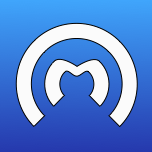
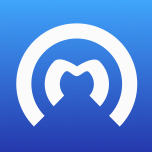
Added Smile test and fixed bug with svg reading

diff --git a/NGraphics/SvgReader.cs b/NGraphics/SvgReader.cs
@@ -210,6 +210,23 @@ namespace NGraphics
 		void ApplyStyle (Dictionary<string, string> style, ref Pen pen, ref Brush brush)
 		{
 			//
+			// Pen attributes
+			//
+			var strokeWidth = GetString (style, "stroke-width");
+			if (!string.IsNullOrWhiteSpace (strokeWidth)) {
+				if (pen == null)
+					pen = new Pen ();
+				pen.Width = ReadNumber (strokeWidth);
+			}
+
+			var strokeOpacity = GetString (style, "stroke-opacity");
+			if (!string.IsNullOrWhiteSpace (strokeOpacity)) {
+				if (pen == null)
+					pen = new Pen ();
+				pen.Color = pen.Color.WithAlpha (ReadNumber (strokeOpacity));
+			}
+
+			//
 			// Pen
 			//
 			var stroke = GetString (style, "stroke").Trim ();
@@ -230,20 +247,15 @@ namespace NGraphics
 			}
 
 			//
-			// Pen attributes
+			// Brush attributes
 			//
-			var strokeWidth = GetString (style, "stroke-width");
-			if (!string.IsNullOrWhiteSpace (strokeWidth)) {
-				if (pen == null)
-					pen = new Pen ();
-				pen.Width = ReadNumber (strokeWidth);
-			}
-
-			var strokeOpacity = GetString (style, "stroke-opacity");
-			if (!string.IsNullOrWhiteSpace (strokeOpacity)) {
-				if (pen == null)
-					pen = new Pen ();
-				pen.Color = pen.Color.WithAlpha (ReadNumber (strokeOpacity));
+			var fillOpacity = GetString (style, "fill-opacity");
+			if (!string.IsNullOrWhiteSpace (fillOpacity)) {
+				if (brush == null)
+					brush = new SolidBrush ();
+				var sb = brush as SolidBrush;
+				if (sb != null)
+					sb.Color = sb.Color.WithAlpha (ReadNumber (fillOpacity));
 			}
 
 			//
@@ -290,19 +302,6 @@ namespace NGraphics
 					}
 				}
 			}
-
-			//
-			// Brush attributes
-			//
-			var fillOpacity = GetString (style, "fill-opacity");
-			if (!string.IsNullOrWhiteSpace (fillOpacity)) {
-				if (brush == null)
-					brush = new SolidBrush ();
-				var sb = brush as SolidBrush;
-				if (sb != null)
-					sb.Color = sb.Color.WithAlpha (ReadNumber (fillOpacity));
-			}
-
 		}
 
 		Transform ReadTransform (string raw)

diff --git a/NGraphics.Test/SvgReaderTests.cs b/NGraphics.Test/SvgReaderTests.cs
@@ -93,6 +93,12 @@ namespace NGraphics.Test
 		}
 
 		[Test]
+		public void Smile ()
+		{
+			ReadAndDraw ("Smile.svg");
+		}
+
+		[Test]
 		public void SunAtNight ()
 		{
 			ReadAndDraw ("SunAtNight.svg");
